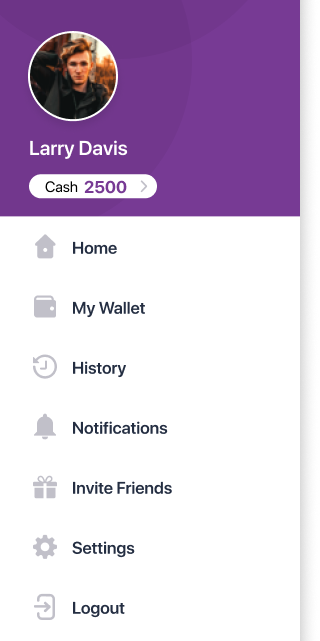
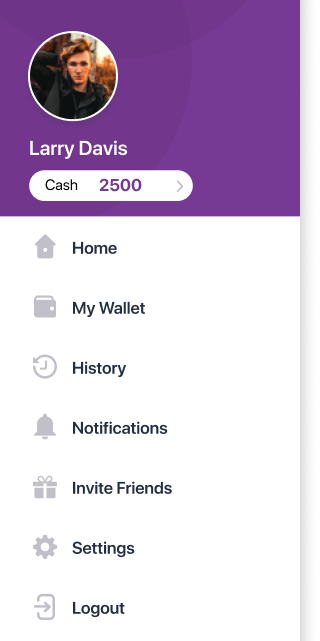
fix driver and user panel

Changed region(s): [[0.0938, 0.2496, 0.625, 0.312]]

diff --git a/src/BAXI.py b/src/BAXI.py
@@ -552,15 +552,25 @@ class Ui_BAXI(object):
         self.pushButt_on_service_driver_home_on_off_service.setFlat(True)
         self.pushButt_on_service_driver_home_on_off_service.setObjectName("pushButt_on_service_driver_home_on_off_service")
         self.get_x_driver_home_on_off_service = QtWidgets.QTextEdit(parent=self.driver_home_on_off_service)
-        self.get_x_driver_home_on_off_service.setGeometry(QtCore.QRect(80, 185, 191, 31))
+        self.get_x_driver_home_on_off_service.setGeometry(QtCore.QRect(80, 295, 191, 31))
         self.get_x_driver_home_on_off_service.setObjectName("get_x_driver_home_on_off_service")
         self.get_y_driver_home_on_off_service = QtWidgets.QTextEdit(parent=self.driver_home_on_off_service)
-        self.get_y_driver_home_on_off_service.setGeometry(QtCore.QRect(80, 240, 191, 31))
+        self.get_y_driver_home_on_off_service.setGeometry(QtCore.QRect(80, 351, 191, 31))
         self.get_y_driver_home_on_off_service.setObjectName("get_y_driver_home_on_off_service")
         self.box_show_wallet_balance_driver_home_on_off_service = QtWidgets.QTextEdit(parent=self.driver_home_on_off_service)
-        self.box_show_wallet_balance_driver_home_on_off_service.setGeometry(QtCore.QRect(83, 60, 191, 31))
+        self.box_show_wallet_balance_driver_home_on_off_service.setGeometry(QtCore.QRect(80, 150, 191, 51))
+        font = QtGui.QFont()
+        font.setPointSize(16)
+        self.box_show_wallet_balance_driver_home_on_off_service.setFont(font)
         self.box_show_wallet_balance_driver_home_on_off_service.setFrameShape(QtWidgets.QFrame.Shape.NoFrame)
         self.box_show_wallet_balance_driver_home_on_off_service.setObjectName("box_show_wallet_balance_driver_home_on_off_service")
+        self.box_show_flname_balance_driver_home_on_off_service = QtWidgets.QTextEdit(parent=self.driver_home_on_off_service)
+        self.box_show_flname_balance_driver_home_on_off_service.setGeometry(QtCore.QRect(83, 45, 191, 31))
+        font = QtGui.QFont()
+        font.setPointSize(12)
+        self.box_show_flname_balance_driver_home_on_off_service.setFont(font)
+        self.box_show_flname_balance_driver_home_on_off_service.setFrameShape(QtWidgets.QFrame.Shape.NoFrame)
+        self.box_show_flname_balance_driver_home_on_off_service.setObjectName("box_show_flname_balance_driver_home_on_off_service")
         self.stackedWidget.addWidget(self.driver_home_on_off_service)
         self.user_history = QtWidgets.QWidget()
         self.user_history.setObjectName("user_history")
@@ -776,10 +786,23 @@ class Ui_BAXI(object):
         self.pushButt_logout_user_home.setObjectName("pushButt_logout_user_home")
         self.box_show_flname_user_home = QtWidgets.QTextEdit(parent=self.user_home)
         self.box_show_flname_user_home.setGeometry(QtCore.QRect(20, 130, 131, 31))
+        font = QtGui.QFont()
+        font.setPointSize(9)
+        font.setBold(False)
+        self.box_show_flname_user_home.setFont(font)
+        self.box_show_flname_user_home.setAutoFillBackground(False)
+        self.box_show_flname_user_home.setInputMethodHints(QtCore.Qt.InputMethodHint.ImhMultiLine)
+        self.box_show_flname_user_home.setFrameShape(QtWidgets.QFrame.Shape.NoFrame)
+        self.box_show_flname_user_home.setFrameShadow(QtWidgets.QFrame.Shadow.Sunken)
+        self.box_show_flname_user_home.setAutoFormatting(QtWidgets.QTextEdit.AutoFormattingFlag.AutoNone)
+        self.box_show_flname_user_home.setTabChangesFocus(False)
         self.box_show_flname_user_home.setReadOnly(True)
+        self.box_show_flname_user_home.setOverwriteMode(False)
+        self.box_show_flname_user_home.setPlaceholderText("")
         self.box_show_flname_user_home.setObjectName("box_show_flname_user_home")
         self.box_show_cash_user_home = QtWidgets.QTextEdit(parent=self.user_home)
-        self.box_show_cash_user_home.setGeometry(QtCore.QRect(80, 170, 91, 31))
+        self.box_show_cash_user_home.setGeometry(QtCore.QRect(80, 170, 88, 29))
+        self.box_show_cash_user_home.setFrameShape(QtWidgets.QFrame.Shape.NoFrame)
         self.box_show_cash_user_home.setReadOnly(True)
         self.box_show_cash_user_home.setObjectName("box_show_cash_user_home")
         self.stackedWidget.addWidget(self.user_home)
@@ -835,30 +858,38 @@ class Ui_BAXI(object):
         self.pushButt_back_user_my_account.setFlat(True)
         self.pushButt_back_user_my_account.setObjectName("pushButt_back_user_my_account")
         self.show_box_level_user_my_account = QtWidgets.QTextEdit(parent=self.user_my_account)
-        self.show_box_level_user_my_account.setGeometry(QtCore.QRect(190, 270, 151, 31))
+        self.show_box_level_user_my_account.setGeometry(QtCore.QRect(140, 270, 151, 31))
+        self.show_box_level_user_my_account.setFrameShape(QtWidgets.QFrame.Shape.NoFrame)
         self.show_box_level_user_my_account.setReadOnly(True)
         self.show_box_level_user_my_account.setObjectName("show_box_level_user_my_account")
         self.show_box_flname_user_my_account = QtWidgets.QTextEdit(parent=self.user_my_account)
-        self.show_box_flname_user_my_account.setGeometry(QtCore.QRect(190, 330, 151, 31))
+        self.show_box_flname_user_my_account.setGeometry(QtCore.QRect(140, 330, 201, 31))
+        self.show_box_flname_user_my_account.setFrameShape(QtWidgets.QFrame.Shape.NoFrame)
         self.show_box_flname_user_my_account.setReadOnly(True)
         self.show_box_flname_user_my_account.setObjectName("show_box_flname_user_my_account")
         self.show_box_email_user_my_account = QtWidgets.QTextEdit(parent=self.user_my_account)
-        self.show_box_email_user_my_account.setGeometry(QtCore.QRect(70, 380, 271, 31))
+        self.show_box_email_user_my_account.setGeometry(QtCore.QRect(140, 380, 221, 31))
+        self.show_box_email_user_my_account.setFrameShape(QtWidgets.QFrame.Shape.NoFrame)
         self.show_box_email_user_my_account.setObjectName("show_box_email_user_my_account")
         self.show_box_gender_user_my_account = QtWidgets.QTextEdit(parent=self.user_my_account)
-        self.show_box_gender_user_my_account.setGeometry(QtCore.QRect(150, 420, 191, 31))
+        self.show_box_gender_user_my_account.setGeometry(QtCore.QRect(140, 430, 191, 31))
+        self.show_box_gender_user_my_account.setFrameShape(QtWidgets.QFrame.Shape.NoFrame)
         self.show_box_gender_user_my_account.setReadOnly(True)
         self.show_box_gender_user_my_account.setObjectName("show_box_gender_user_my_account")
         self.box_show_birthday_user_my_account = QtWidgets.QTextEdit(parent=self.user_my_account)
-        self.box_show_birthday_user_my_account.setGeometry(QtCore.QRect(150, 470, 191, 31))
+        self.box_show_birthday_user_my_account.setGeometry(QtCore.QRect(140, 480, 191, 31))
+        self.box_show_birthday_user_my_account.setFrameShape(QtWidgets.QFrame.Shape.NoFrame)
         self.box_show_birthday_user_my_account.setReadOnly(True)
         self.box_show_birthday_user_my_account.setObjectName("box_show_birthday_user_my_account")
         self.box_show_phone_numbe_user_my_account = QtWidgets.QTextEdit(parent=self.user_my_account)
-        self.box_show_phone_numbe_user_my_account.setGeometry(QtCore.QRect(150, 510, 191, 31))
+        self.box_show_phone_numbe_user_my_account.setGeometry(QtCore.QRect(140, 530, 191, 31))
+        self.box_show_phone_numbe_user_my_account.setFrameShape(QtWidgets.QFrame.Shape.NoFrame)
         self.box_show_phone_numbe_user_my_account.setReadOnly(True)
         self.box_show_phone_numbe_user_my_account.setObjectName("box_show_phone_numbe_user_my_account")
         self.pushButt_apply_changes_user_my_account = QtWidgets.QPushButton(parent=self.user_my_account)
-        self.pushButt_apply_changes_user_my_account.setGeometry(QtCore.QRect(110, 580, 121, 29))
+        self.pushButt_apply_changes_user_my_account.setGeometry(QtCore.QRect(90, 580, 171, 29))
+        self.pushButt_apply_changes_user_my_account.setText("")
+        self.pushButt_apply_changes_user_my_account.setFlat(True)
         self.pushButt_apply_changes_user_my_account.setObjectName("pushButt_apply_changes_user_my_account")
         self.stackedWidget.addWidget(self.user_my_account)
         self.user_setting = QtWidgets.QWidget()
@@ -1265,7 +1296,7 @@ class Ui_BAXI(object):
         BAXI.setCentralWidget(self.centralwidget)
 
         self.retranslateUi(BAXI)
-        self.stackedWidget.setCurrentIndex(23)
+        self.stackedWidget.setCurrentIndex(15)
         QtCore.QMetaObject.connectSlotsByName(BAXI)
 
     def retranslateUi(self, BAXI):
@@ -1328,7 +1359,6 @@ class Ui_BAXI(object):
         self.alphabet_get_machine_baxi_woman_info.setItemText(6, _translate("BAXI", "W"))
         self.alphabet_get_machine_baxi_woman_info.setItemText(7, _translate("BAXI", "Q"))
         self.alphabet_get_machine_baxi_woman_info.setItemText(8, _translate("BAXI", "M"))
-        self.pushButt_apply_changes_user_my_account.setText(_translate("BAXI", "apply changes"))
         self.round_trip_baxi_user_choose_vehicle_type.setItemText(0, _translate("BAXI", "no"))
         self.round_trip_baxi_user_choose_vehicle_type.setItemText(1, _translate("BAXI", "yes"))
         self.cargo_type_baxi_bar_user_choose_vehicle_type.setItemText(0, _translate("BAXI", "unfragile"))

diff --git a/src/BAXI_MinWindow.py b/src/BAXI_MinWindow.py
@@ -646,6 +646,9 @@ class MainWindow:
 
     def show_driver_home_on_off_service(self):
         self.ui.stackedWidget.setCurrentWidget(self.mp.show())
+        self.ui.box_show_wallet_balance_driver_home_on_off_service.setText(str(self.driver_1.get_wallet_balance()))
+        self.ui.box_show_flname_balance_driver_home_on_off_service.setText(
+            self.driver_1.get_first_name() + " " + self.driver_1.get_last_name())
         self.ui.stackedWidget.setCurrentWidget(self.ui.driver_home_on_off_service)
 
     def set_general_info_trip(self):
